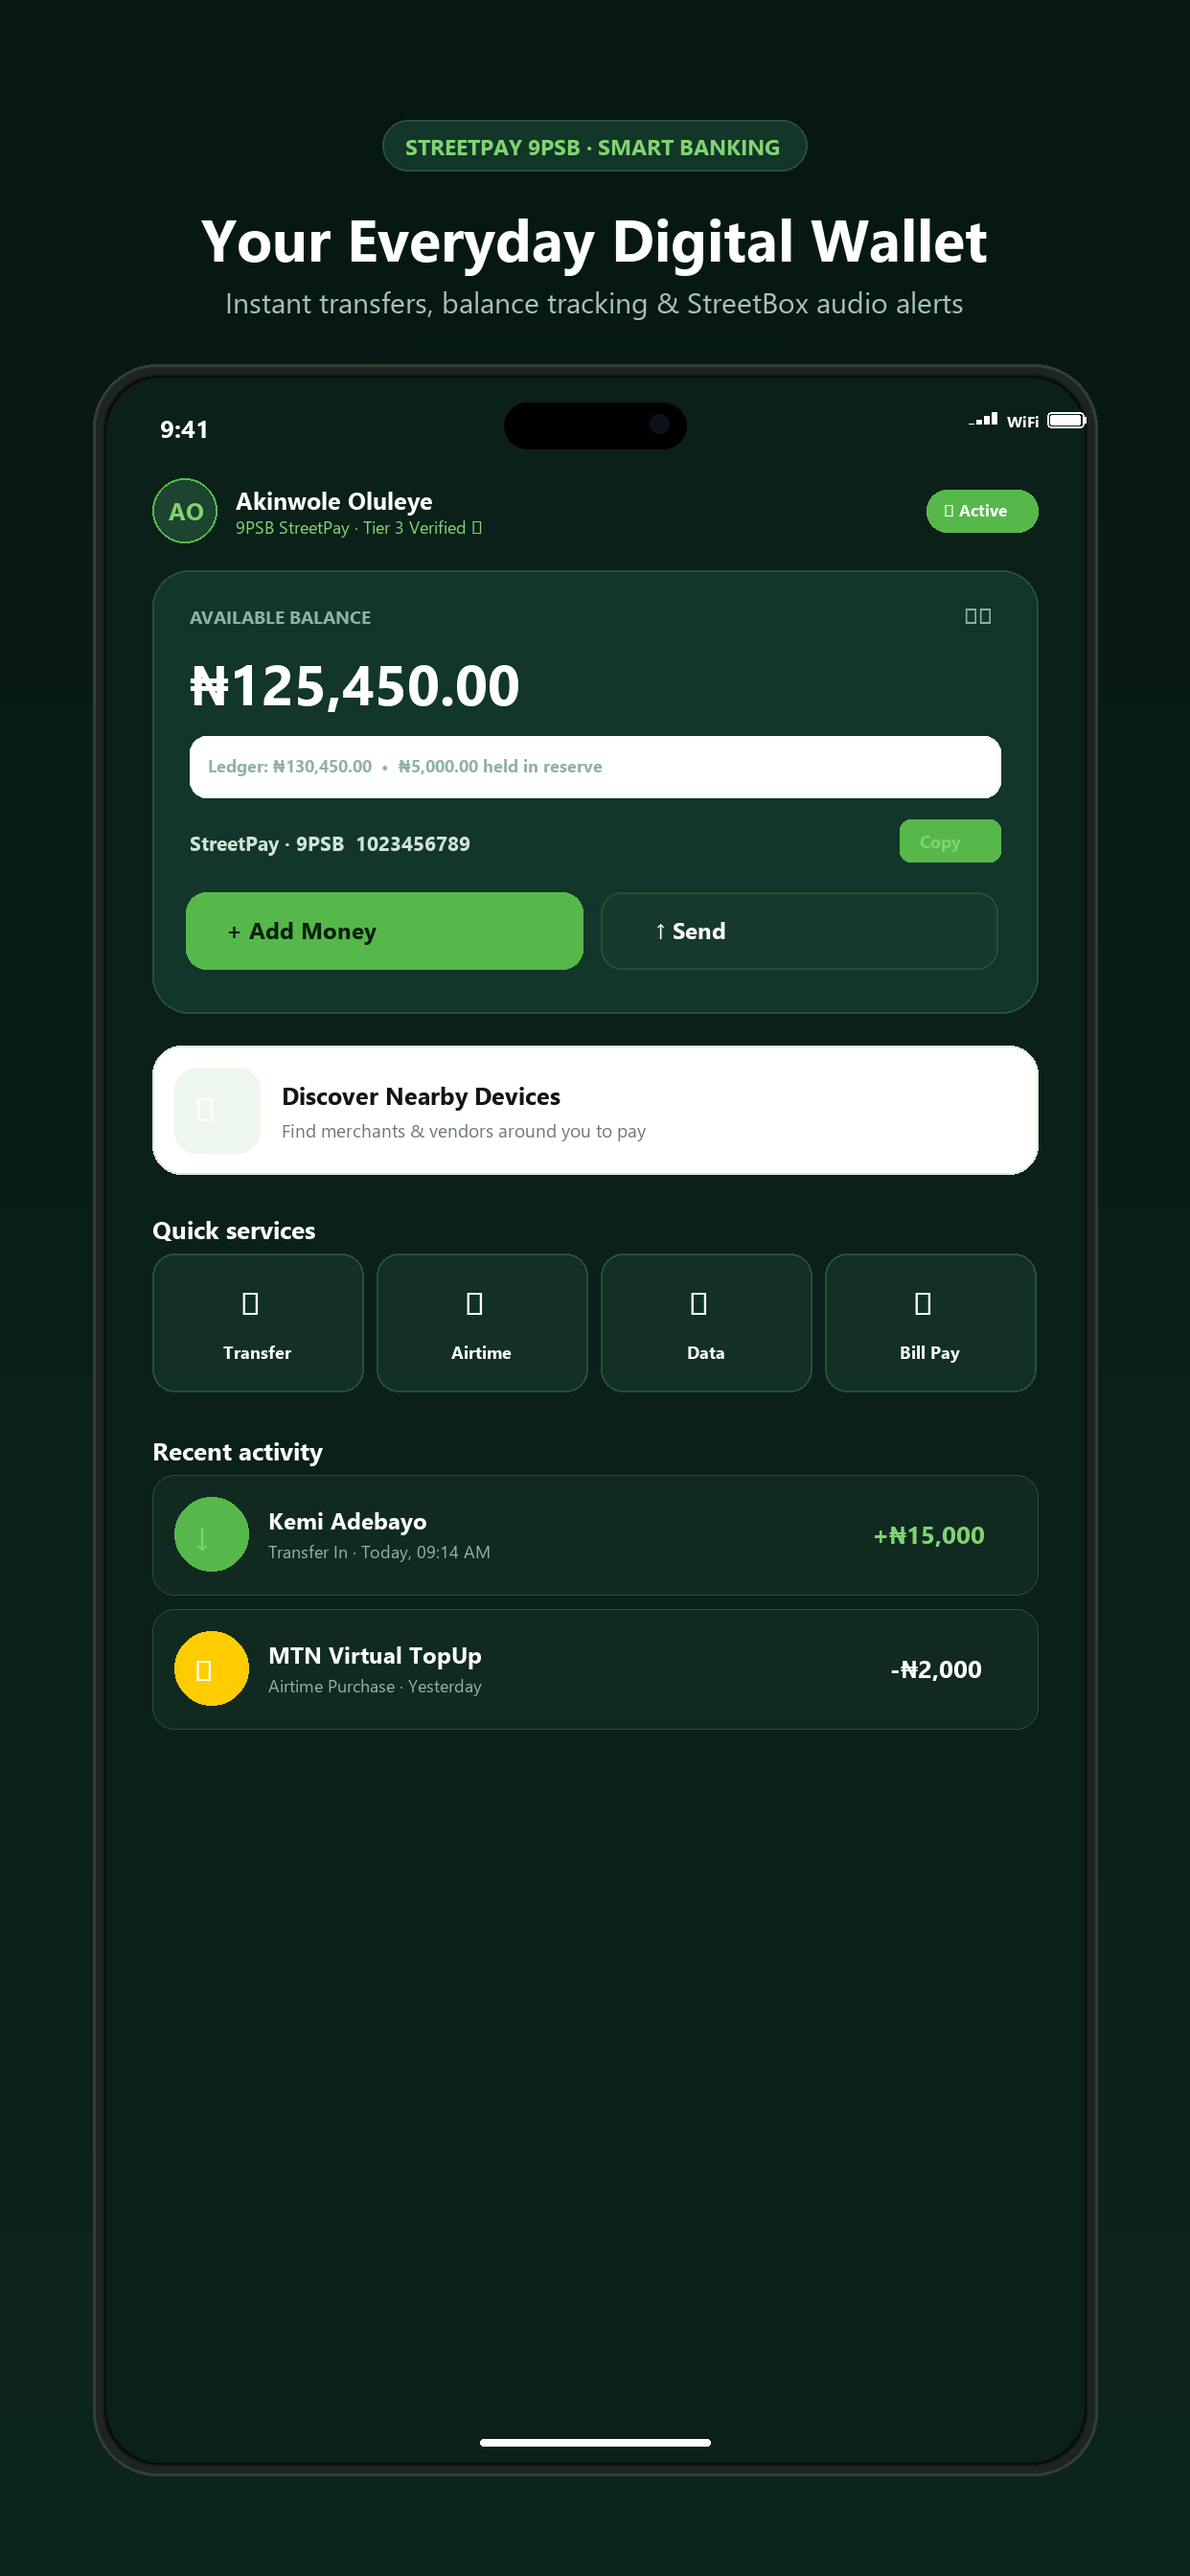
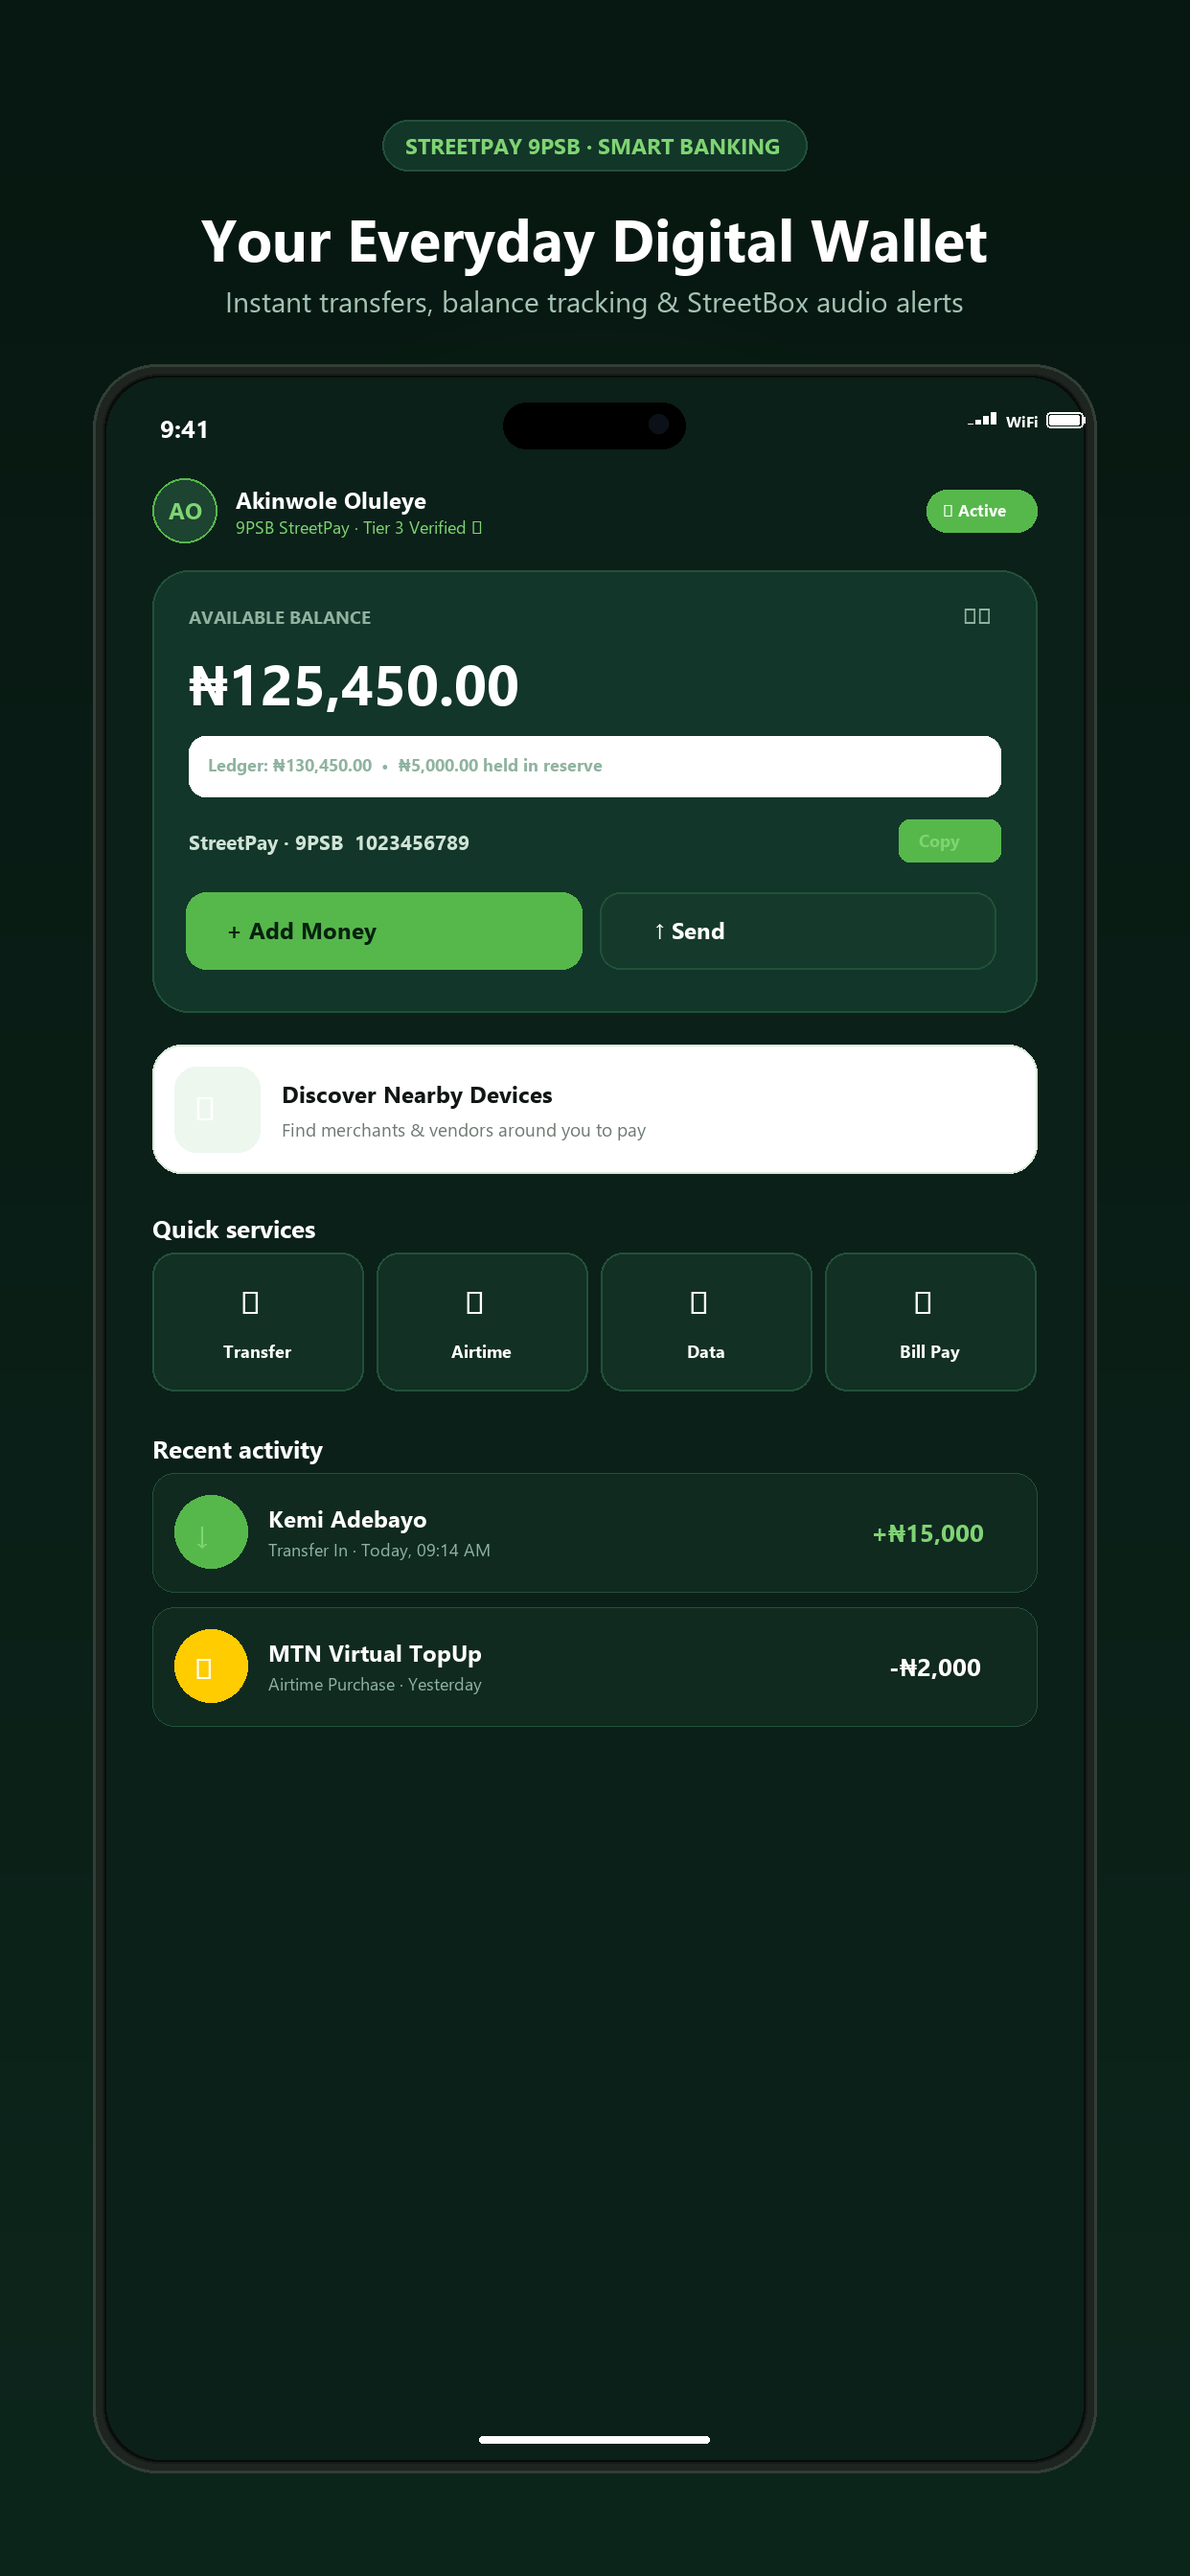
feat: add App Store headers and screenshots for all iPhone and iPad display sizes

diff --git a/scripts/generate_screenshots.py b/scripts/generate_screenshots.py
@@ -5,8 +5,12 @@ from PIL import Image, ImageDraw, ImageFont
 
 # Target resolutions for App Store Connect
 SIZES = {
-    '6.7_inch': (1290, 2796),  # iPhone 16 Pro Max / 15 Pro Max / 14 Pro Max
-    '6.5_inch': (1242, 2688),  # iPhone 11 Pro Max / XS Max
+    '6.7_inch': (1290, 2796),       # iPhone 16 Pro Max / 15 Pro Max / 14 Pro Max
+    '6.5_inch': (1242, 2688),       # iPhone 11 Pro Max / XS Max
+    '6.3_inch': (1206, 2622),       # iPhone 16 Pro
+    '6.1_inch': (1179, 2556),       # iPhone 16 / 15 / 15 Pro / 14 Pro
+    'ipad_13_inch': (2064, 2752),   # iPad Pro 13-inch (M4) / iPad Air 13-inch
+    'ipad_12_9_inch': (2048, 2732), # iPad Pro 12.9-inch (3rd-6th gen)
 }
 
 # Brand Colors
@@ -113,7 +117,7 @@ def render_screen_1(w, h):
     draw_vertical_gradient(draw, w, h, COLOR_BG_TOP, (13, 38, 28))
     draw_glowing_circle(img, (w // 2, 850), 550, COLOR_EMERALD, max_alpha=40)
     
-    scale = w / 1290.0
+    scale = min(w / 1290.0, h / 2796.0)
     
     # Top Marketing Banner
     font_tag = get_font(int(24 * scale), bold=True)
@@ -235,7 +239,7 @@ def render_screen_2(w, h):
     draw = ImageDraw.Draw(img)
     draw_vertical_gradient(draw, w, h, COLOR_BG_TOP, (14, 40, 30))
     draw_glowing_circle(img, (w // 2, 850), 550, COLOR_EMERALD, max_alpha=40)
-    scale = w / 1290.0
+    scale = min(w / 1290.0, h / 2796.0)
     
     font_tag = get_font(int(24 * scale), bold=True)
     font_title = get_font(int(64 * scale), bold=True)
@@ -331,7 +335,7 @@ def render_screen_3(w, h):
     draw = ImageDraw.Draw(img)
     draw_vertical_gradient(draw, w, h, COLOR_BG_TOP, (12, 36, 26))
     draw_glowing_circle(img, (w // 2, 950), 600, COLOR_EMERALD, max_alpha=50)
-    scale = w / 1290.0
+    scale = min(w / 1290.0, h / 2796.0)
     
     font_tag = get_font(int(24 * scale), bold=True)
     font_title = get_font(int(64 * scale), bold=True)
@@ -405,7 +409,7 @@ def render_screen_4(w, h):
     draw = ImageDraw.Draw(img)
     draw_vertical_gradient(draw, w, h, COLOR_BG_TOP, (14, 38, 28))
     draw_glowing_circle(img, (w // 2, 850), 550, COLOR_EMERALD, max_alpha=40)
-    scale = w / 1290.0
+    scale = min(w / 1290.0, h / 2796.0)
     
     font_tag = get_font(int(24 * scale), bold=True)
     font_title = get_font(int(64 * scale), bold=True)
@@ -487,7 +491,7 @@ def render_screen_5(w, h):
     draw = ImageDraw.Draw(img)
     draw_vertical_gradient(draw, w, h, COLOR_BG_TOP, (14, 38, 28))
     draw_glowing_circle(img, (w // 2, 850), 550, COLOR_EMERALD, max_alpha=40)
-    scale = w / 1290.0
+    scale = min(w / 1290.0, h / 2796.0)
     
     font_tag = get_font(int(24 * scale), bold=True)
     font_title = get_font(int(64 * scale), bold=True)
@@ -577,9 +581,18 @@ def main():
         ("5_bills_and_airtime", render_screen_5),
     ]
     
+    downloads_target = r"C:\Users\johna\Downloads\streetpay_screenshots"
+    can_copy_downloads = os.path.exists(r"C:\Users\johna\Downloads")
+    if can_copy_downloads:
+        os.makedirs(downloads_target, exist_ok=True)
+        
     for size_name, (w, h) in SIZES.items():
         out_dir = os.path.join("screenshots", size_name)
         os.makedirs(out_dir, exist_ok=True)
+        dl_size_dir = os.path.join(downloads_target, size_name) if can_copy_downloads else None
+        if dl_size_dir:
+            os.makedirs(dl_size_dir, exist_ok=True)
+            
         print(f"\nRendering for {size_name} ({w}x{h}):")
         for filename, renderer in screens:
             out_path = os.path.join(out_dir, f"{filename}.png")
@@ -587,8 +600,14 @@ def main():
             img = renderer(w, h)
             img.save(out_path, format="PNG", optimize=True)
             print(f"     Saved to {out_path} ({os.path.getsize(out_path) // 1024} KB)")
-            
-    print("\nAll 10 App Store screenshots (5 screens in both 6.7-inch and 6.5-inch) generated successfully!")
+            if dl_size_dir:
+                dl_path = os.path.join(dl_size_dir, f"{filename}.png")
+                img.save(dl_path, format="PNG", optimize=True)
+                
+    total_screens = len(SIZES) * len(screens)
+    print(f"\nAll {total_screens} App Store screenshots ({len(screens)} screens across {len(SIZES)} device formats) generated successfully!")
+    if can_copy_downloads:
+        print(f"Screenshots also copied directly to: {downloads_target}")
 
 if __name__ == '__main__':
     main()

diff --git a/scripts/generate_app_store_headers.py b/scripts/generate_app_store_headers.py
@@ -602,4 +602,13 @@ def render_header_3840x1646():
 if __name__ == "__main__":
     h1 = render_header_5244x2950()
     h2 = render_header_3840x1646()
+    
+    # Also copy directly to Downloads if available
+    dl_dir = r"C:\Users\johna\Downloads"
+    if os.path.exists(dl_dir):
+        import shutil
+        shutil.copy2(h1, os.path.join(dl_dir, "app_store_feature_5244x2950.png"))
+        shutil.copy2(h2, os.path.join(dl_dir, "app_store_banner_3840x1646.png"))
+        print(f"Also copied both banners to: {dl_dir}")
+        
     print("Done! Both App Store header banners created successfully.")
